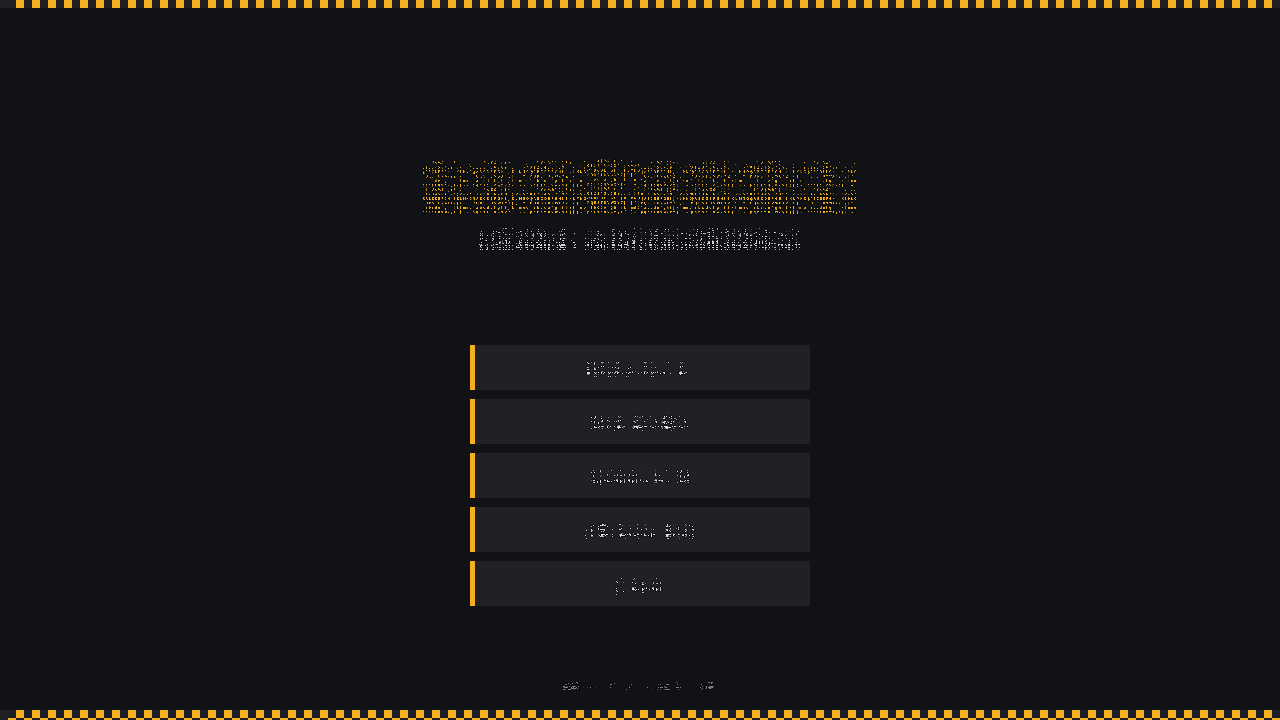
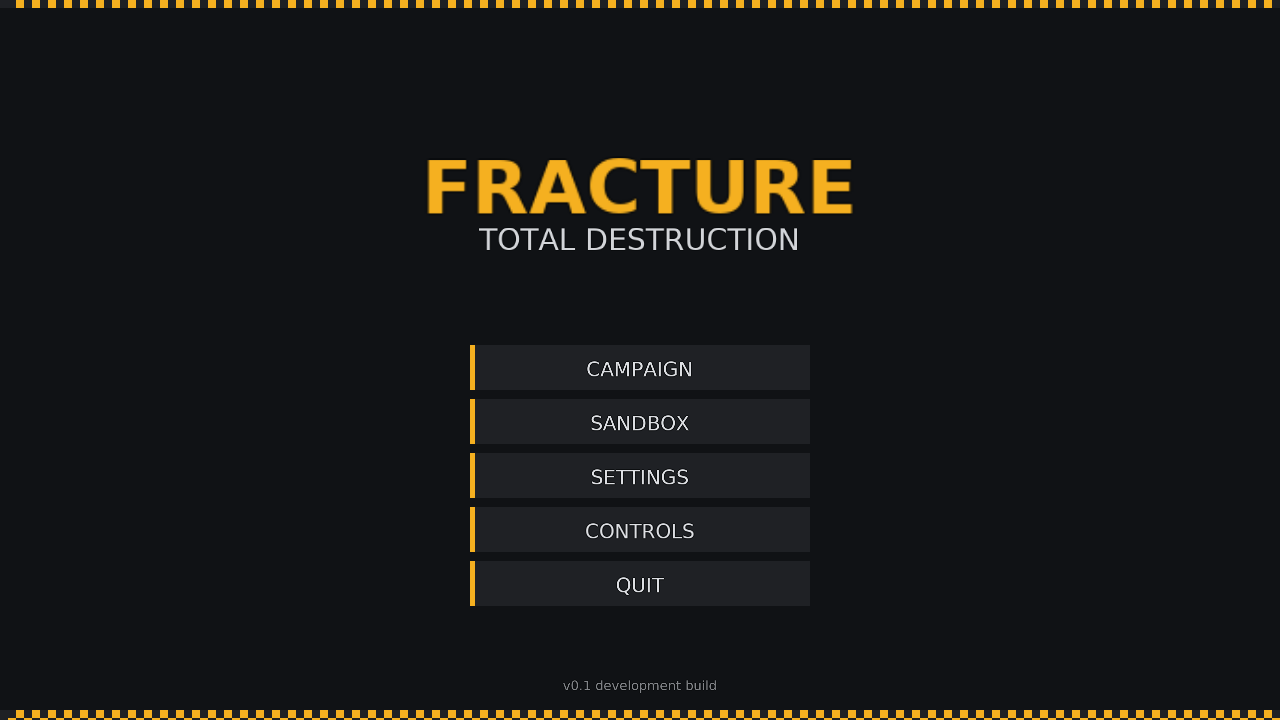
Fix UI font sampling (use quad atlas bounds) — menu renders correctly

diff --git a/src/ft/swbackend.cpp b/src/ft/swbackend.cpp
@@ -519,8 +519,11 @@ private:
             f32 v = (y + 0.5f - q.y) / q.h;
             f32 a = q.a / 255.f;
             if (q.tex == 1) {
-                f32 fx = tclamp(u * FT_FONT_W, 0.f, (f32)FT_FONT_W - 1.001f);
-                f32 fy = tclamp(v * FT_FONT_H, 0.f, (f32)FT_FONT_H - 1.001f);
+                // q.u0..v1 hold atlas-normalized glyph bounds
+                f32 au = q.u0 + u * (q.u1 - q.u0);
+                f32 av2 = q.v0 + v * (q.v1 - q.v0);
+                f32 fx = tclamp(au * FT_FONT_W, 0.f, (f32)FT_FONT_W - 1.001f);
+                f32 fy = tclamp(av2 * FT_FONT_H, 0.f, (f32)FT_FONT_H - 1.001f);
                 int ix = (int)fx, iy = (int)fy;
                 f32 tx = fx - ix, ty = fy - iy;
                 int ix1 = tmin(ix + 1, FT_FONT_W - 1), iy1 = tmin(iy + 1, FT_FONT_H - 1);
